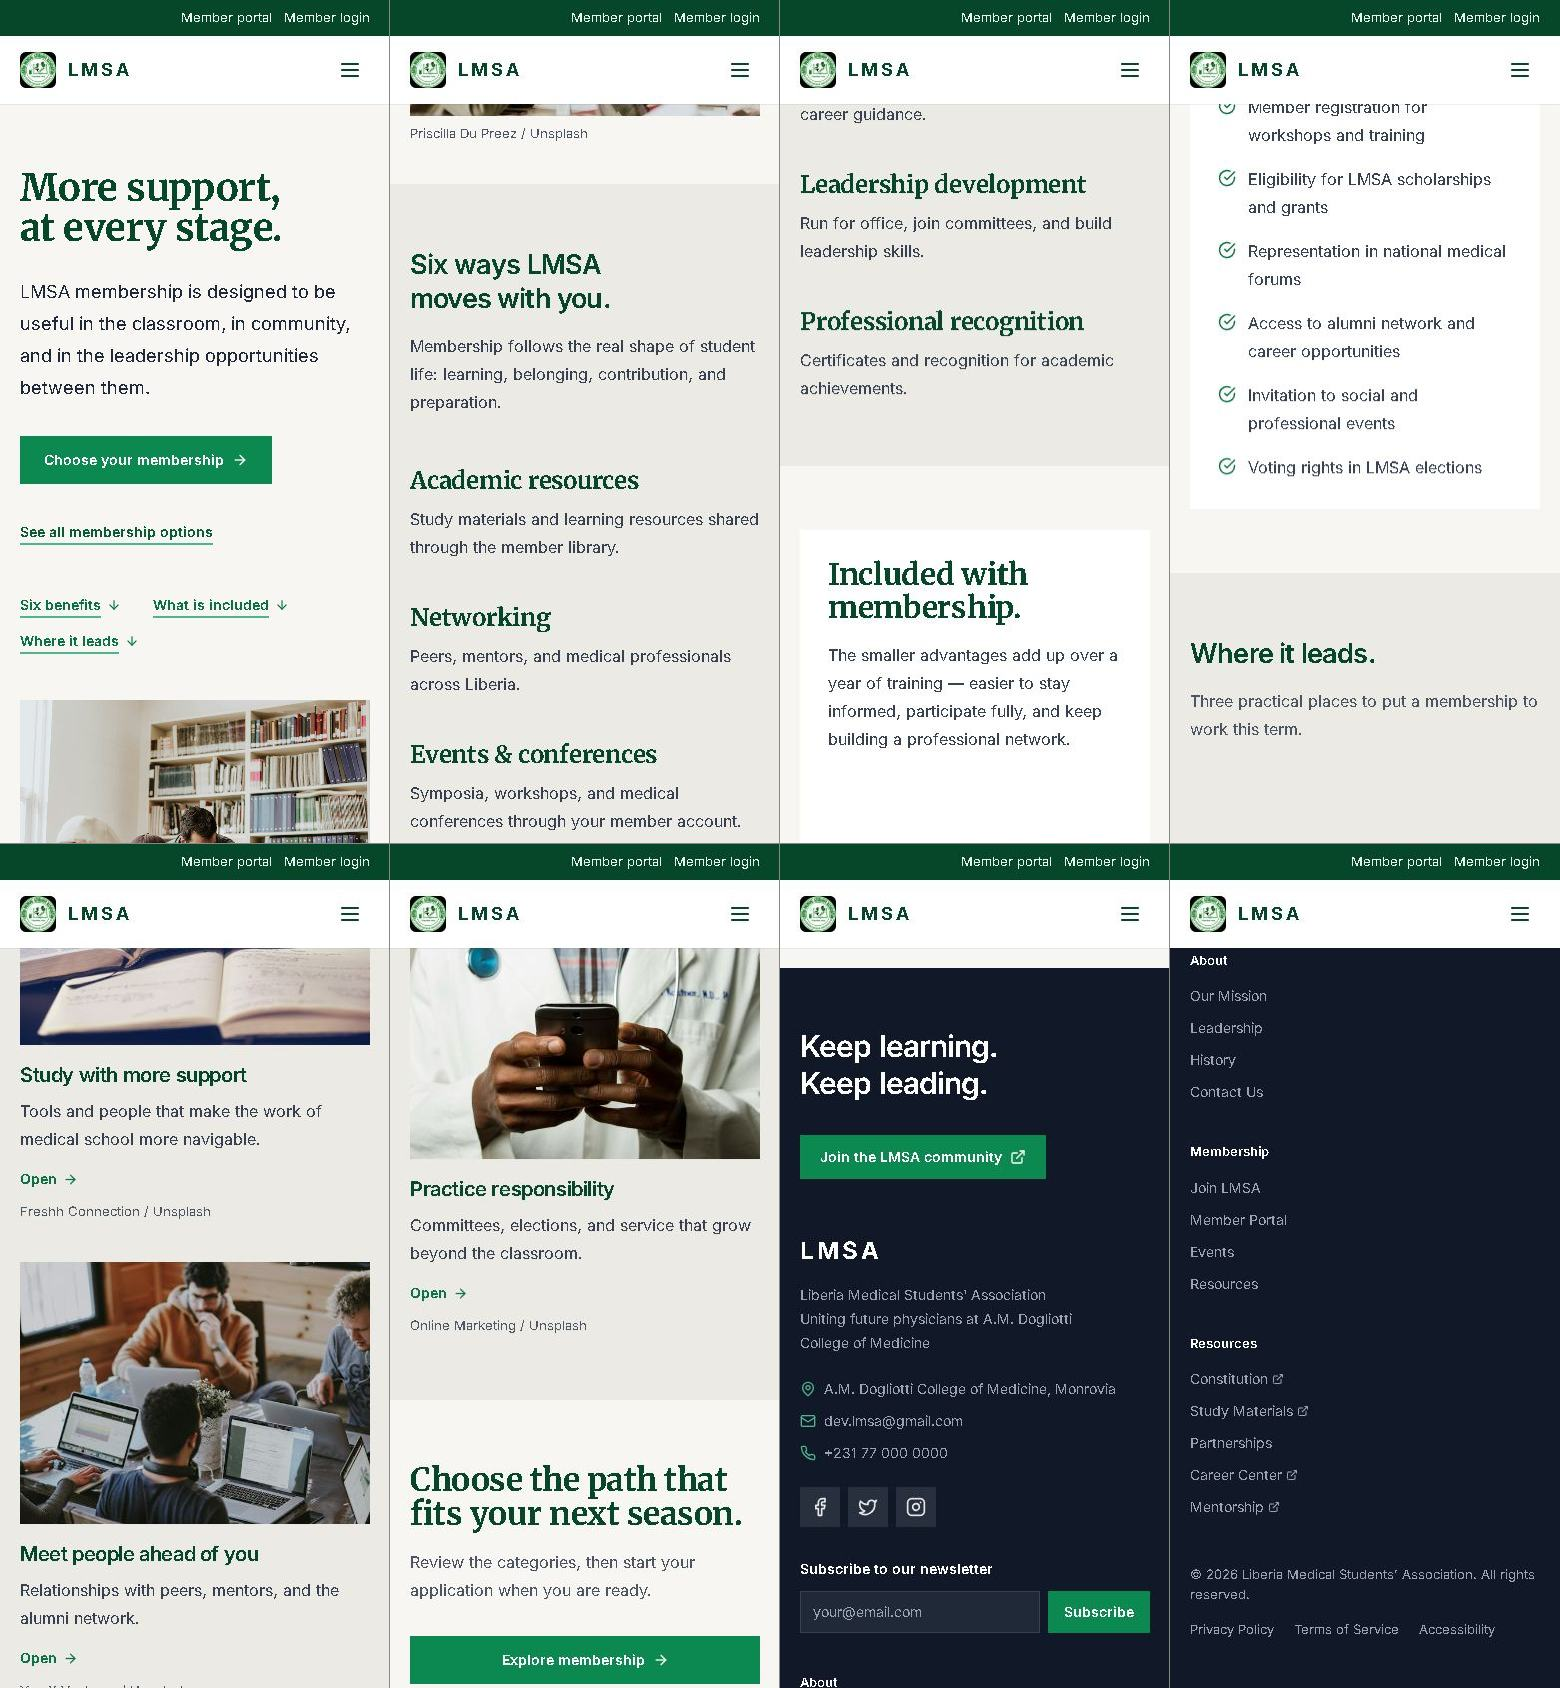
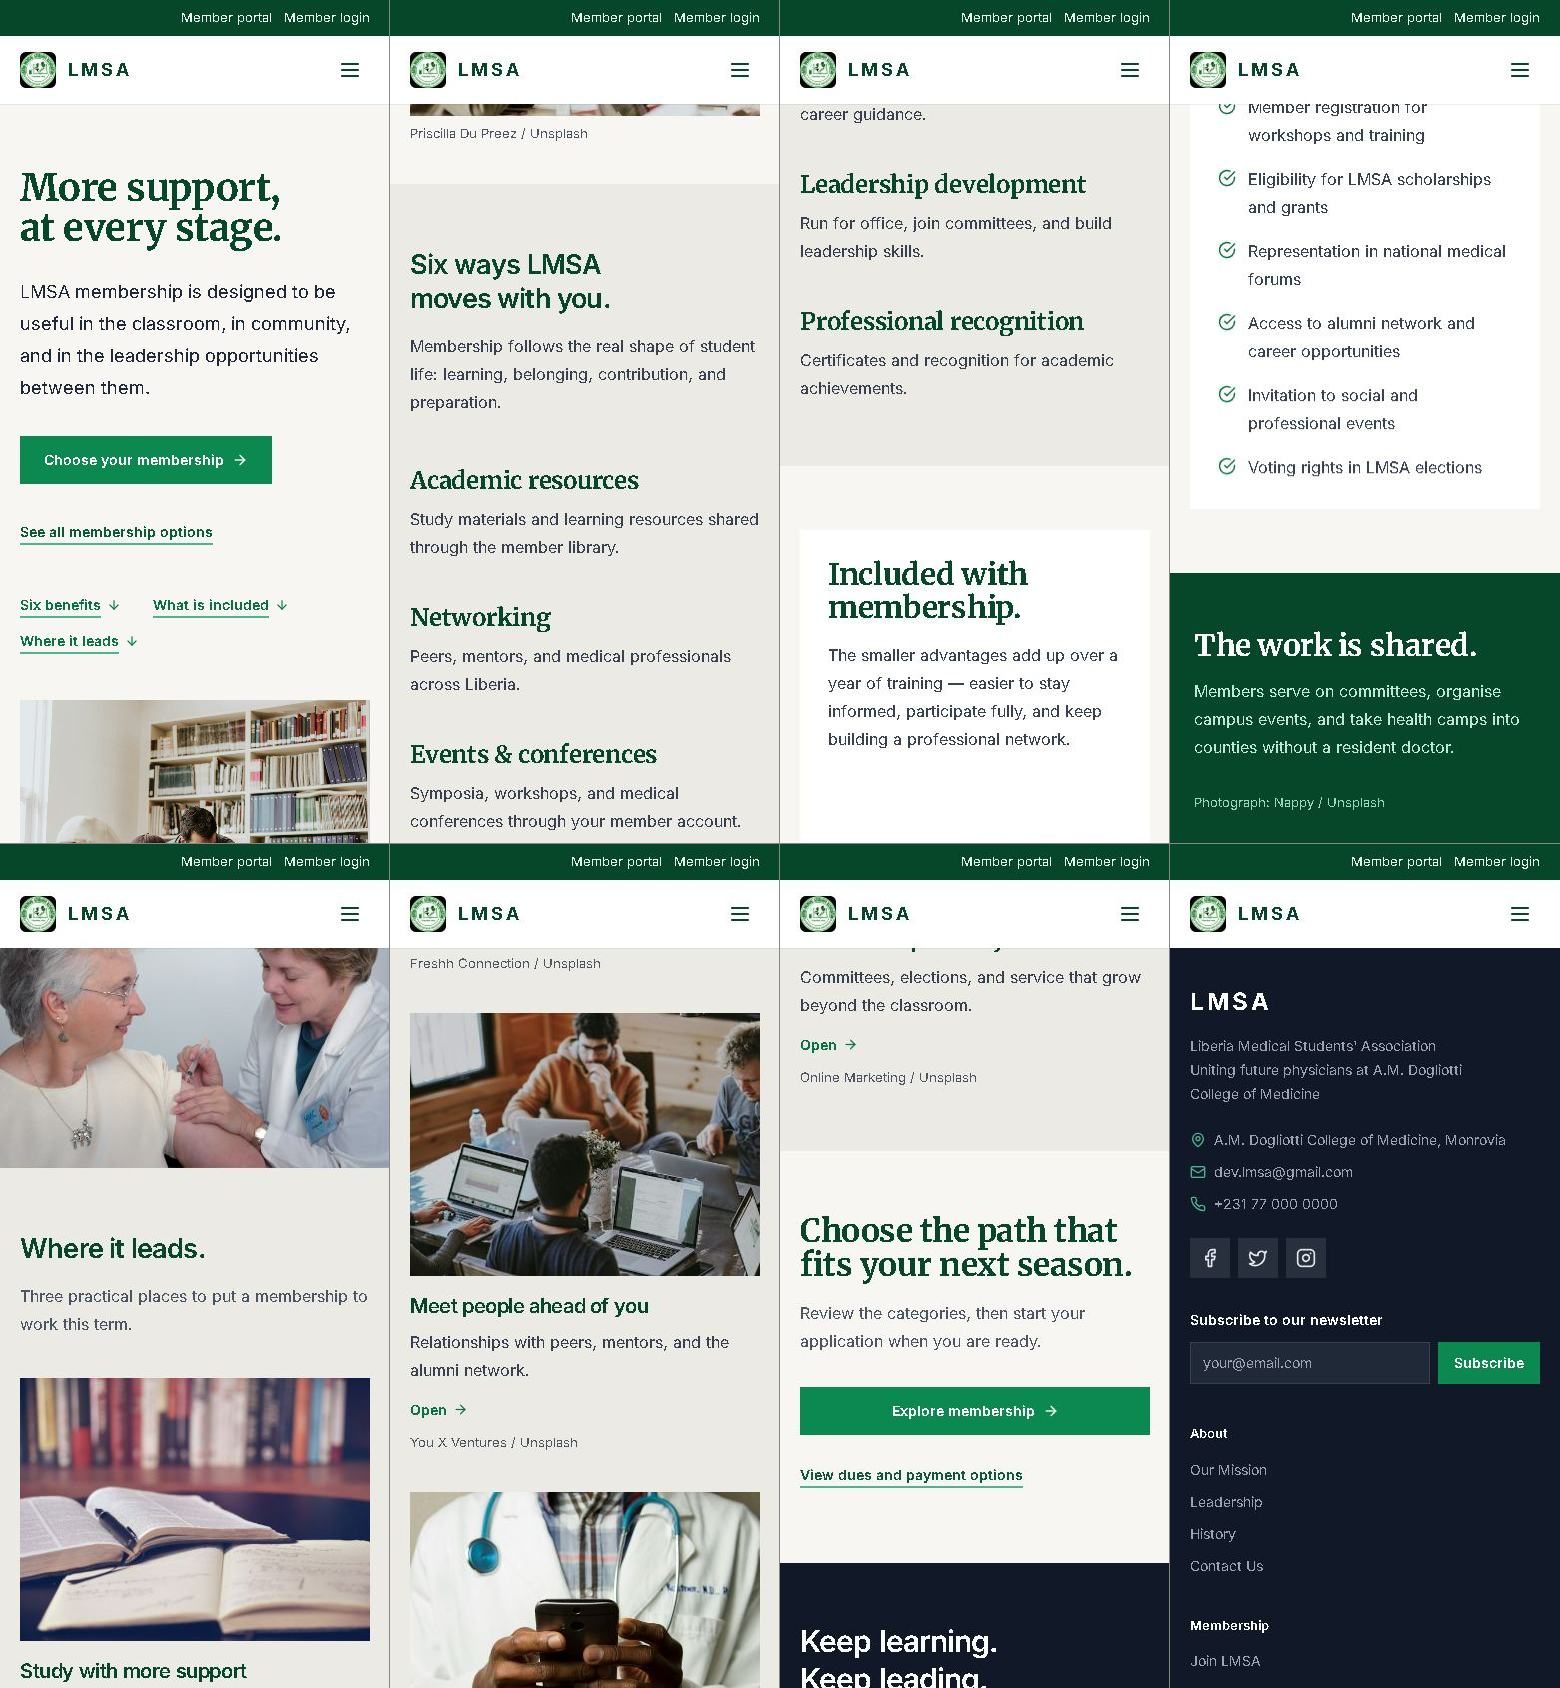
Add a photograph-led community band to the benefits page
The page moved from the included panel straight into link paths, so it had no image-led breath between the two. A full-width band now pairs a short, sourced statement about member committees, events, and health camps with a credited outreach photograph that bleeds to the viewport edge.

🤖 Generated with Codebuff

diff --git a/lmsa-website/src/pages/public/BenefitsPage.jsx b/lmsa-website/src/pages/public/BenefitsPage.jsx
@@ -183,6 +183,30 @@ export default function BenefitsPage() {
         </div>
       </section>
 
+      {/* A photograph-led band: the community side of membership, bled to the edge. */}
+      <section className="bg-lmsa-900">
+        <div className="grid items-stretch lg:grid-cols-[minmax(0,1fr)_minmax(0,0.85fr)]">
+          <div className="reveal-on-scroll px-6 py-14 sm:px-10 md:py-20 lg:pl-[max(2.5rem,calc((100vw-80rem)/2+2.5rem))] lg:pr-16">
+            <h2 className="max-w-[16ch] font-serif text-[clamp(1.9rem,3.4vw,3rem)] font-bold leading-[1.06] tracking-[-0.015em] text-white">
+              The work is shared.
+            </h2>
+            <p className="mt-4 max-w-[44ch] text-base leading-7 text-lmsa-100">
+              Members serve on committees, organise campus events, and take health camps into
+              counties without a resident doctor.
+            </p>
+            <p className="mt-8 text-[13px] text-lmsa-200">
+              Photograph: {stockPhotos.stories.medicalCamp.credit}
+            </p>
+          </div>
+          <Photo
+            src={stockPhotos.stories.medicalCamp.src}
+            alt={stockPhotos.stories.medicalCamp.alt}
+            fallbackGradient="bg-lmsa-800"
+            className="h-[300px] w-full sm:h-[380px] lg:h-full lg:min-h-[460px]"
+          />
+        </div>
+      </section>
+
       {/* Where the benefits lead: three image-led paths, not link cards. */}
       <section id="paths" className="editorial-section editorial-section-muted">
         <div className="site-container">
